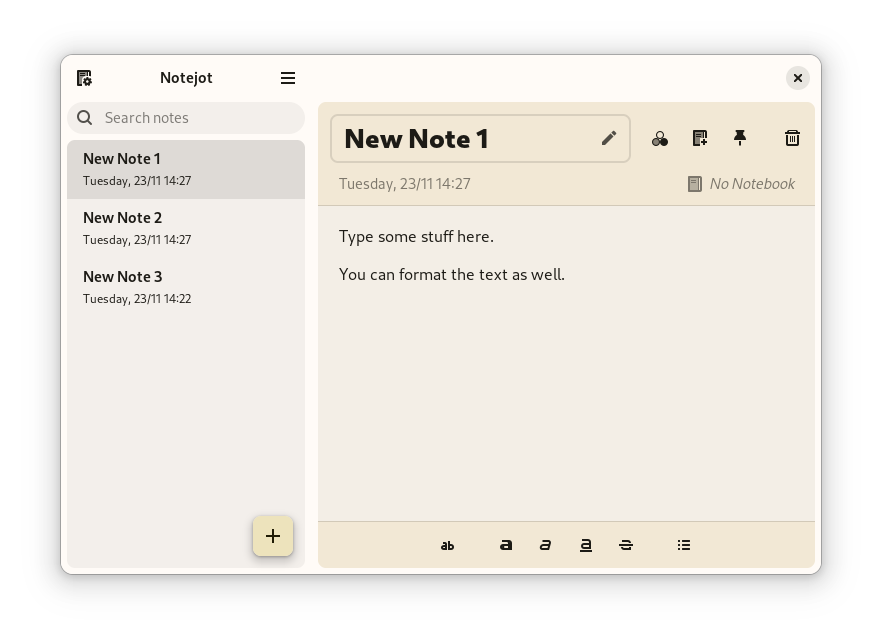
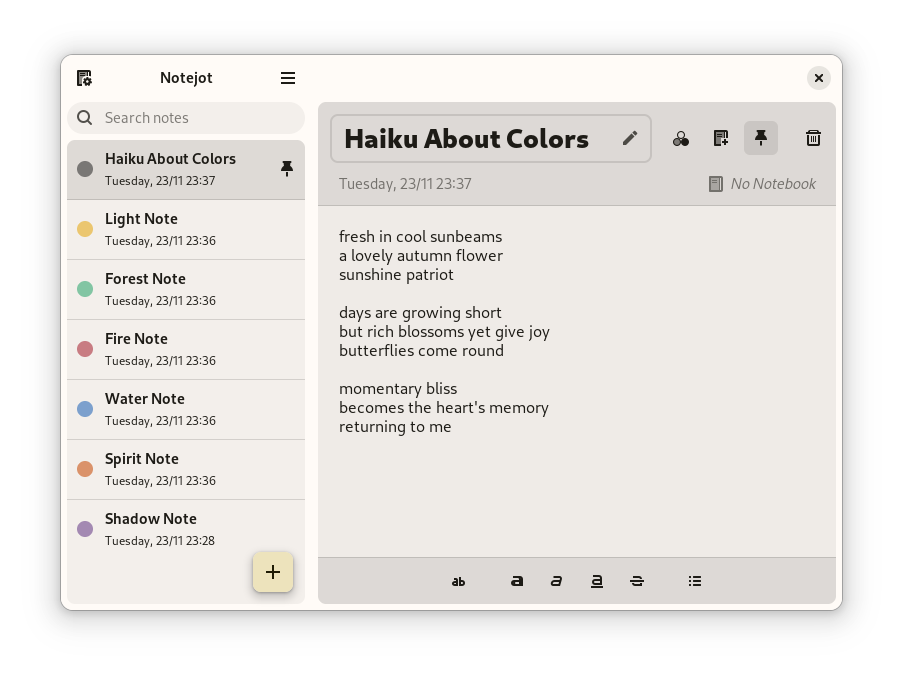
* - Reintroduce Color badges on Notes, still have to find a way to show them on launch

diff --git a/data/style.css b/data/style.css
@@ -125,6 +125,14 @@
 	border: none;
 	background: @popover_bg_color;
 }
+.content-sidebar row {
+  margin: 0px;
+  padding: 0px;
+}
+.content-sidebar row:last-child box {
+  border: none;
+}
+
 .content-sidebar-dialog {
 	margin: 6px 12px;
 	margin-bottom: 0px;
@@ -134,7 +142,9 @@
 }
 
 .notejot-sidebar-box {
-  margin: 8px;
+  padding: 10px;
+  margin: 0px;
+  border-bottom: 1px solid @borders;
 }
 
 .content-header {
